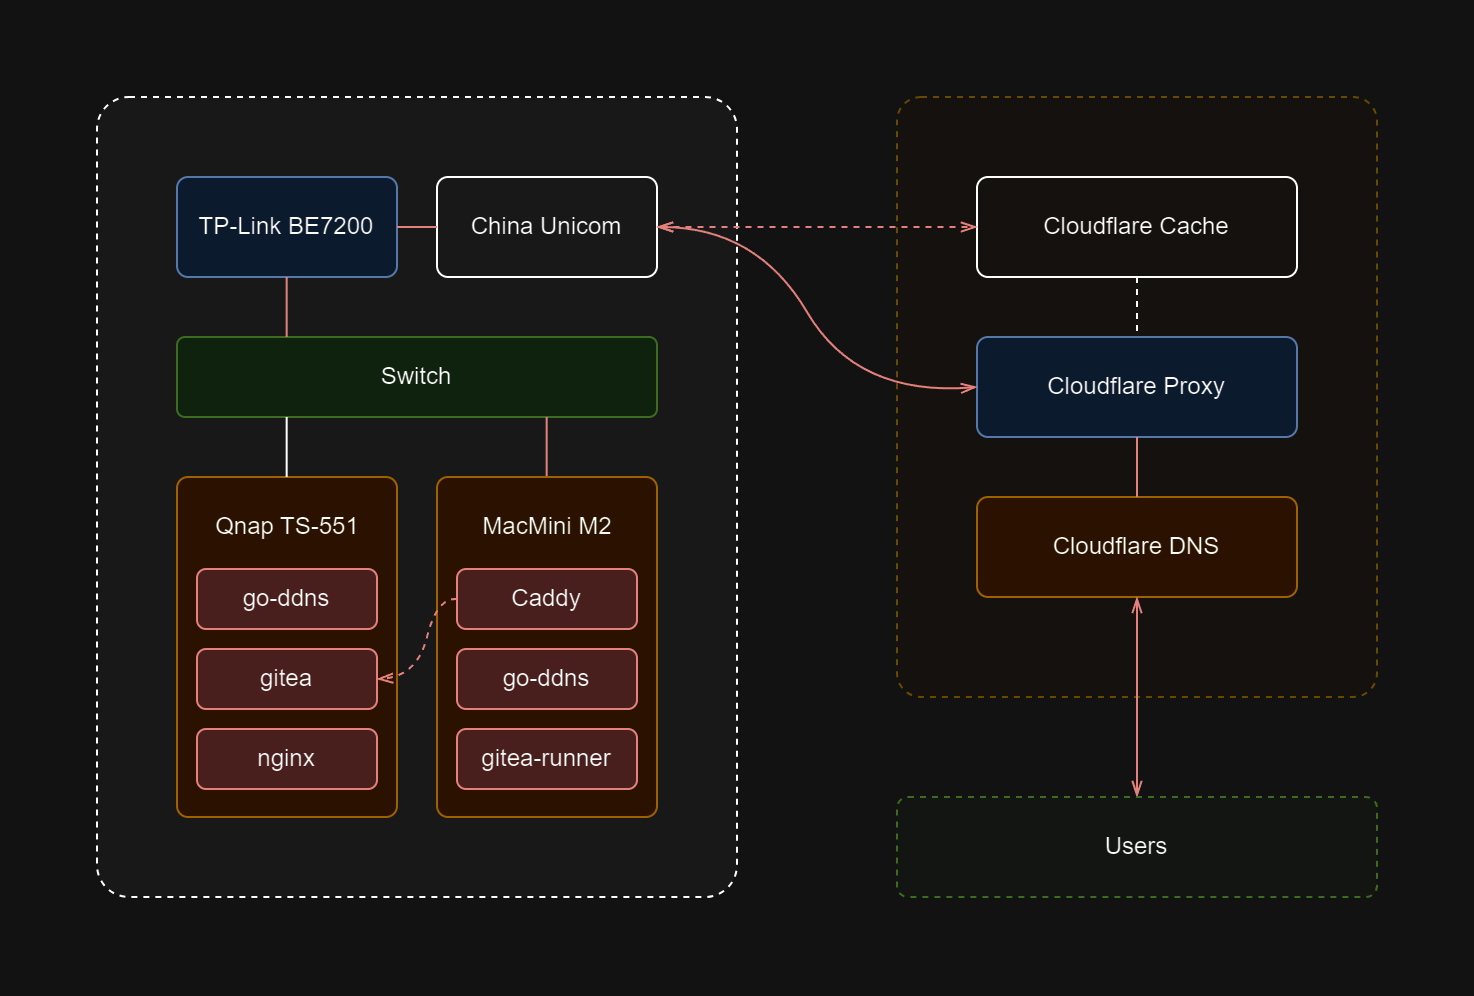
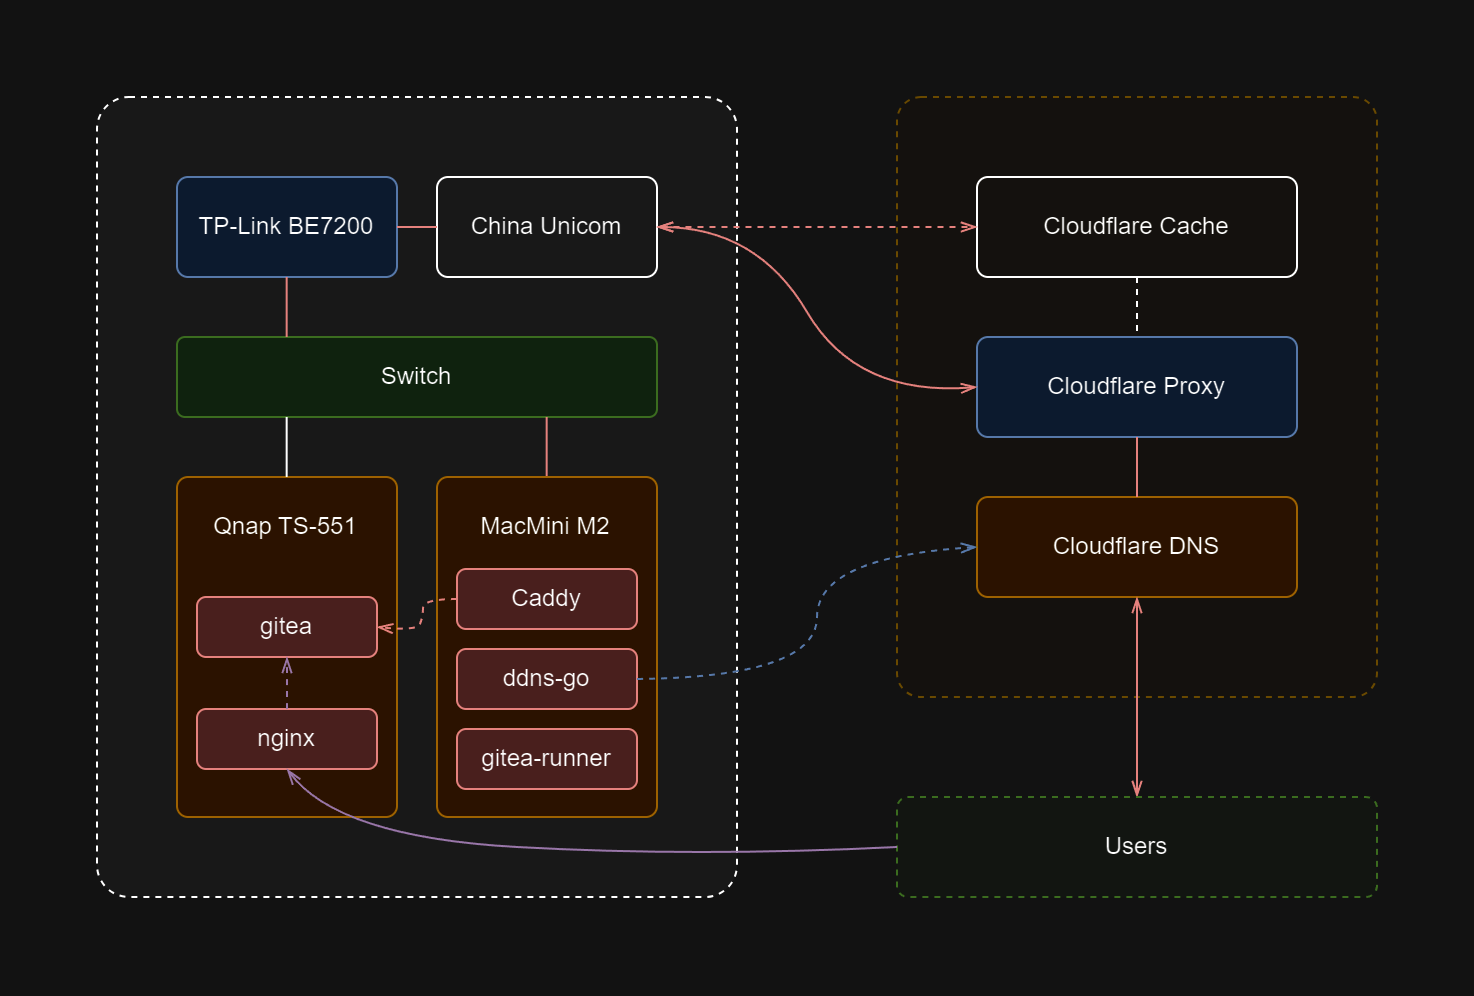
feat: update

Changed region(s): [[0.1248, 0.498, 0.2809, 0.8092], [0.3121, 0.498, 0.4057, 0.5602], [0.3433, 0.6536, 0.4057, 0.6847]]

diff --git a/source/_posts/blog-from-scratch.md b/source/_posts/blog-from-scratch.md
@@ -12,16 +12,19 @@ categories:
 简单来说，方案分为了几个主要的部分：
 
 1. 公网访问使用了可行性较高的 **光猫桥接路由器拨号同时获取 IPv4 大内网和 IPv6 公网 /64 地址** 方案
-2. v6 / v4 双栈访问采用了 **Cloudflare DNS Proxy** 通过 Cloudflare 的代理回源的方式实现
-3. 80 / 443 端口封禁规避同样使用的是 **Cloudflare 回源指定端口** 的能力
-4. 博客源代码使用 **Gitea 仓库存储 + Actions 编译自动化部署** 实现
-5. Gitea 仓库 **直接在 Nas 上通过 Docker Compose 部署**
-6. 博客公网访问采取 **Caddy 反向代理** 方案，通过 **caddy-git 插件实现 webhook 更新本地 git 仓库并用 fileserver 代理仓库目录** 实现网站内容更新，由于 Nas 性能羸弱，Caddy 服务部署在 MacMini 上
-7. TLS 采用 **caddy-dns 插件实现，用 Cloudflare token 实现 dns 验证，Caddy 自动部署证书**
-8. Gitea Actions **容器化部署在 MacMini 端，用本地链接访问 Nas 上的 Gitea 服务**，减少 Cloudflare 代理流量和延迟
-9. 博客自动化部署 Actions 采用 **Main 分支 Checkout - 环境配置 - 文件编译、拷贝、暂存 - Publish 分支 Checkout - 文件覆盖 - Commit 提交 - 触发 Caddy-git 更新 Webhook** 链路
+2. DNS 解析采用了 **MacMini 上部署的 [ddns-go](https://github.com/jeessy2/ddns-go)** 实现
+3. v6 / v4 双栈访问采用了 **[Cloudflare](https://cloudflare.com) DNS Proxy** 通过 Cloudflare 的代理回源的方式实现
+4. 80 / 443 端口封禁规避同样使用的是 **Cloudflare 回源指定端口** 的能力
+5. 博客源代码使用 **Gitea 仓库存储 + Actions 编译自动化部署** 实现
+6. Gitea 仓库 **直接在 Nas 上通过 Docker Compose 部署**
+7. 博客公网访问采取 **[Caddy](https://github.com/caddyserver/caddy) 反向代理** 方案，通过 **[caddy-git](https://github.com/greenpau/caddy-git) 插件实现 webhook 更新本地 git 仓库并用 fileserver 代理仓库目录** 实现网站内容更新，由于 Nas 性能羸弱，Caddy 服务部署在 MacMini 上
+8. TLS 采用 **[caddy-dns](https://github.com/caddy-dns/cloudflare) 插件实现，用 Cloudflare token 实现 dns 验证，Caddy 自动部署证书**
+9. Gitea Actions **容器化部署在 MacMini 端，用本地链接访问 Nas 上的 Gitea 服务**，减少 Cloudflare 代理流量和延迟
+10. 博客自动化部署 Actions 采用 **Main 分支 Checkout - 环境配置 - 文件编译、拷贝、暂存 - Publish 分支 Checkout - 文件覆盖 - Commit 提交 - 触发 Caddy-git 更新 Webhook** 链路
 
 全方案的拓扑图如下
+
+其中红色线条为 HTTP 流量，蓝色线条为 DDNS-GO 流量，紫色线条为本地或 v6 直连的 ssh TCP 流量
 
 ![blog_topology](blog_topology.png)
 
